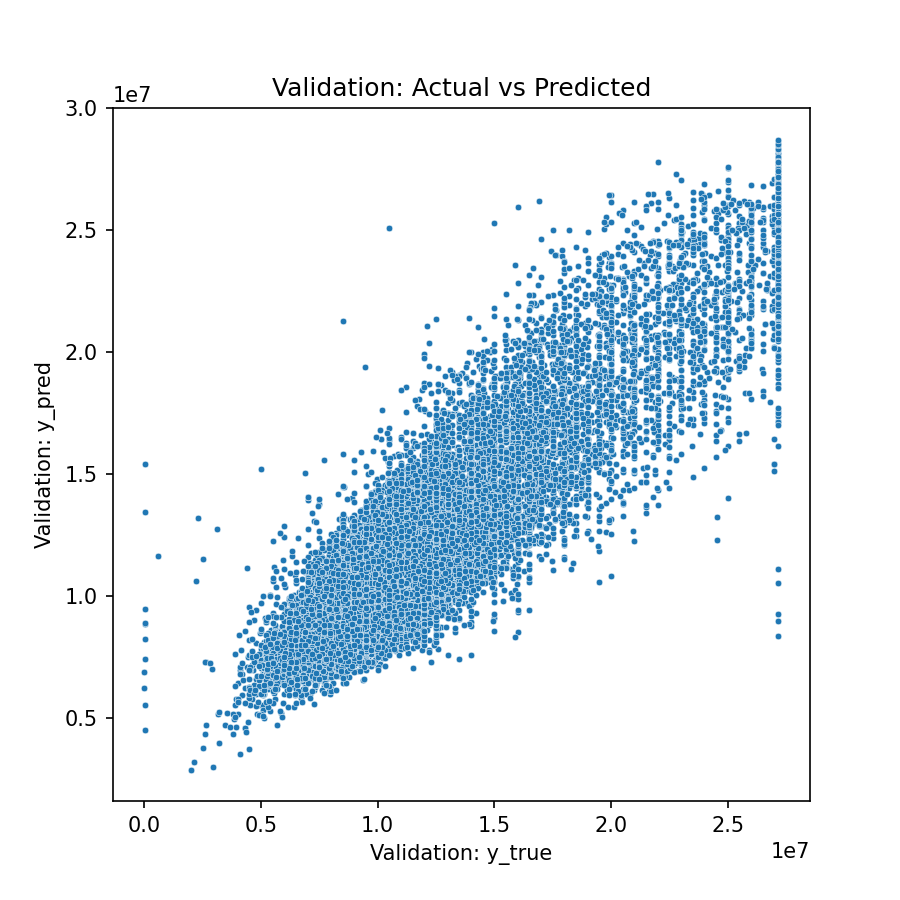
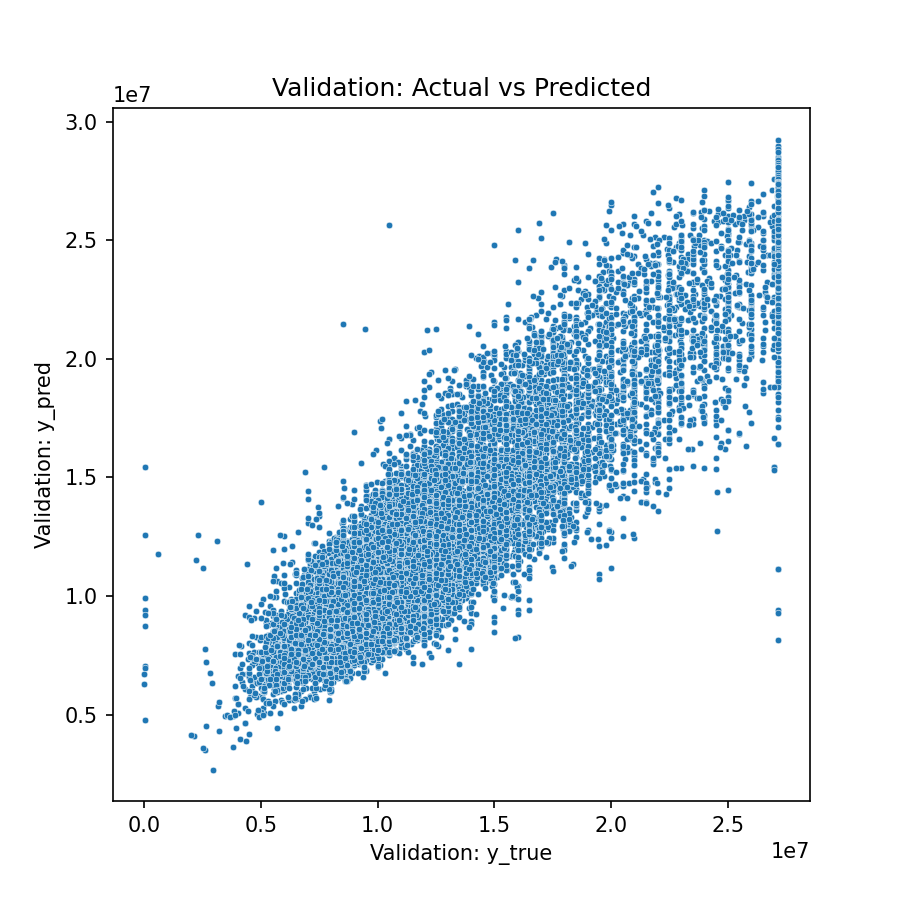
Edited README.

diff --git a/mlflow_server/register_baseline.py b/mlflow_server/register_baseline.py
@@ -19,7 +19,7 @@ from sqlalchemy import create_engine
 
 @dataclass(frozen=True)
 class Config:
-    experiment_name: str = "model_FE_matevosov"
+    experiment_name: str = "model_improvement_matevosov"
     registered_model_name: str = "real_estate_price_model"
     run_name: str = "01_baseline"
     table_name: str = "public.real_estate_dataset_clean"

diff --git a/README.md b/README.md
@@ -63,6 +63,7 @@ sudo apt-get install python3.10-venv
 python3.10 -m venv .venv_project_name
 
 source .venv_project_name/bin/activate
+pip install -r requirements.txt
 
 ```
 Заполните .env_template и переименуйте в .env
@@ -71,6 +72,13 @@ source .venv_project_name/bin/activate
 # экспортируйте перепенные из .env
 export $(grep -v '^#' .env | xargs)
 ```
-
+Поднять MLFow:
+```bash
+bash mlflow_server/start_mlflow.sh
+```
+Зарегестрировать базовую модель:
+```bash
+python3.10 ./mlflow_server/register_baseline.py
+```
 
 

diff --git a/model_improvement/artifacts/stage3/stage3_summary.md b/model_improvement/artifacts/stage3/stage3_summary.md
@@ -2,7 +2,7 @@
 
 - manual_features_added_cnt: 6
 - manual_feature_names: ['area_per_room', 'building_age', 'flats_per_floor', 'floor_ratio', 'is_first_floor', 'is_top_floor']
-- autofeat_added_cnt: 30
-- n_features_final: 50
-- RMSE=2254603.5187, MAE=1738156.4754, R2=0.8665
-- fit_time_sec=27.9259, predict_time_sec=0.0266
+- autofeat_added_cnt: 27
+- n_features_final: 47
+- RMSE=2251914.8249, MAE=1738004.4824, R2=0.8669
+- fit_time_sec=29.8938, predict_time_sec=0.0333